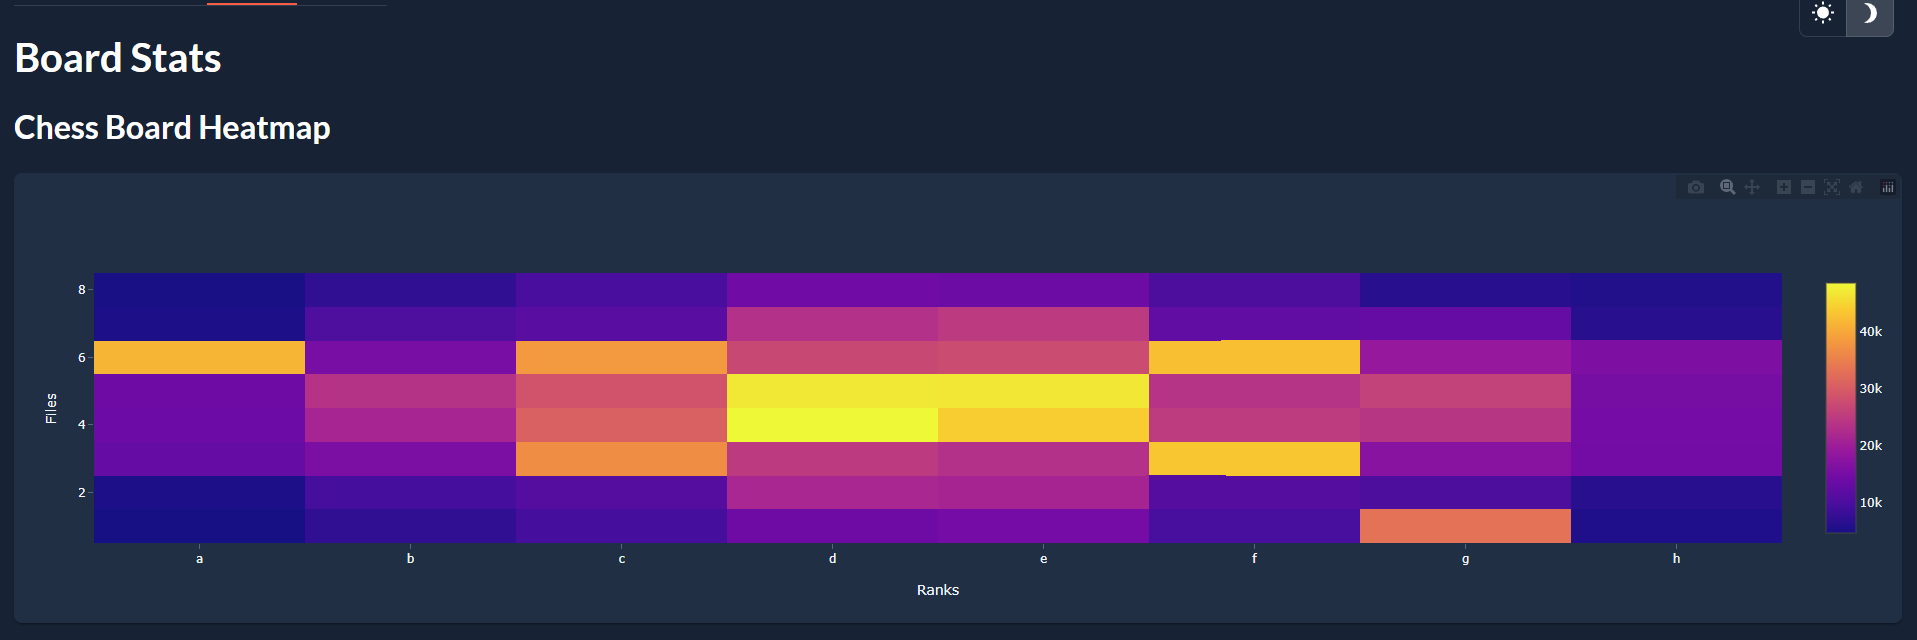
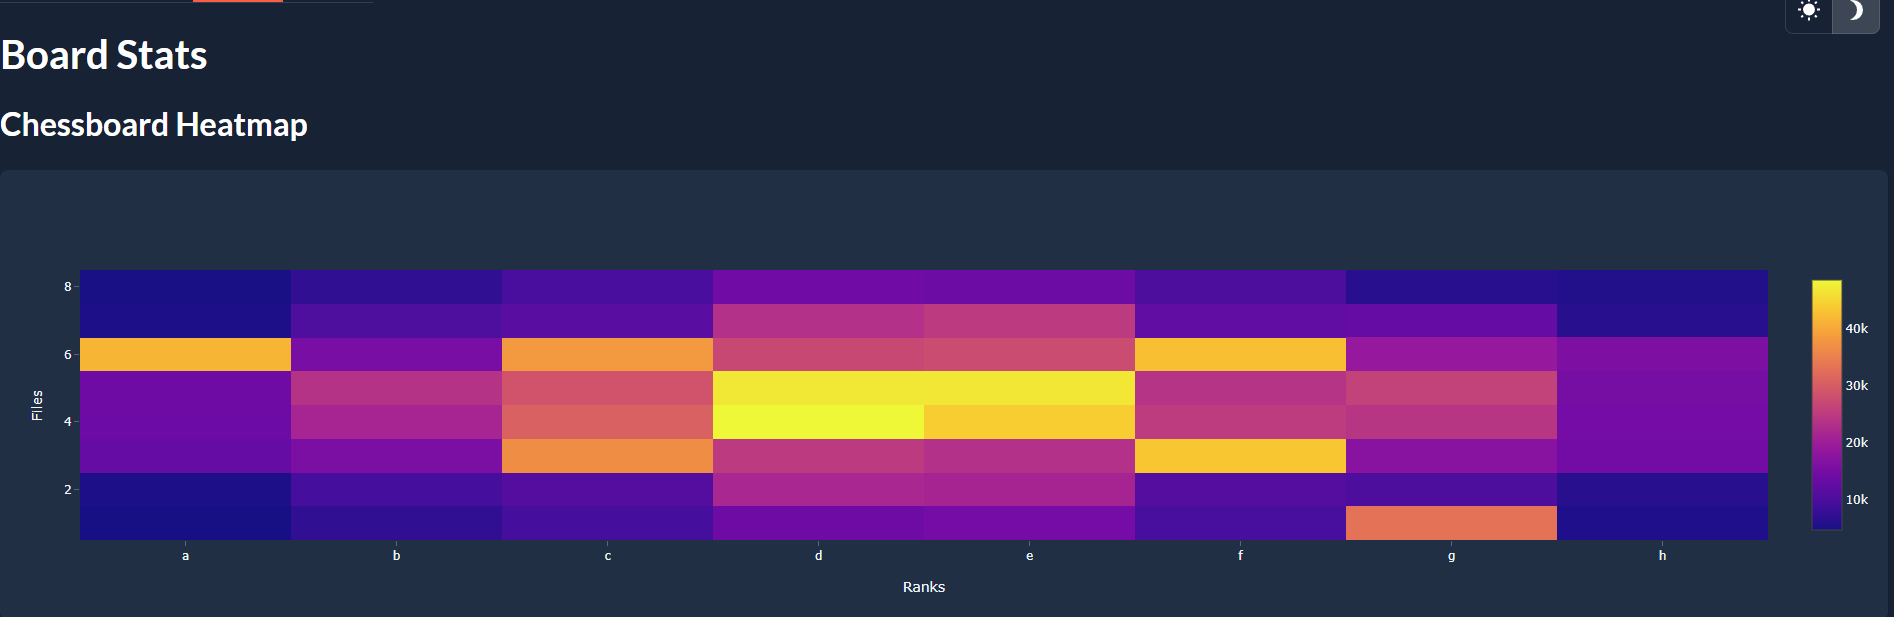
typo fixes

diff --git a/src/pages/board.md b/src/pages/board.md
@@ -1,5 +1,5 @@
 # Board Stats
 
-## Chess Board Heatmap
+## Chessboard Heatmap
 
 <|{data}|chart|type=heatmap|z=Moves|y=Files|x=Ranks|layout=layout|>
